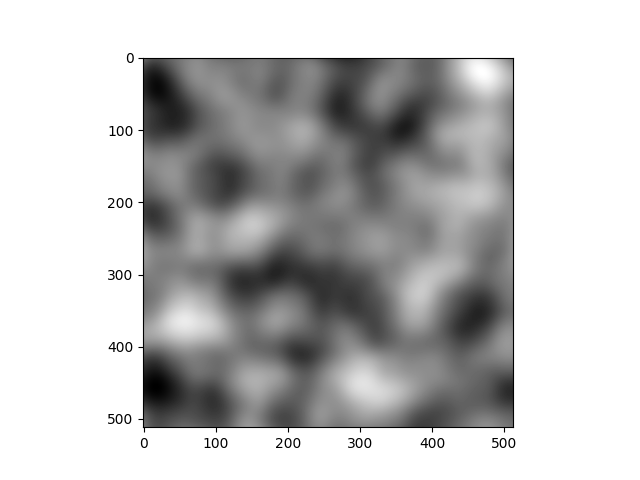
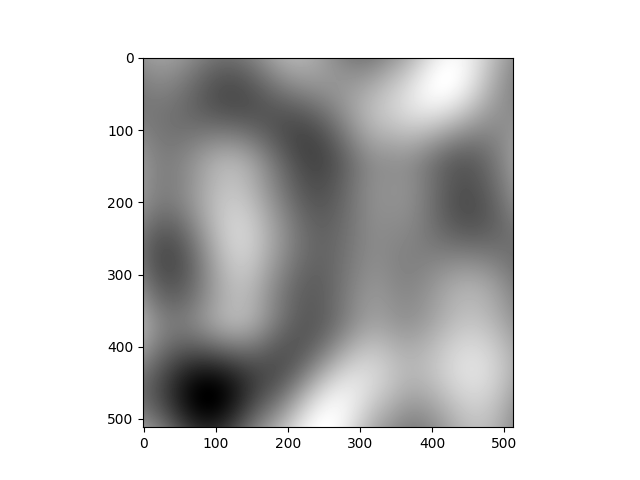
if anyone has a good config that looks like real clouds please create a pull request

diff --git a/test.py b/test.py
@@ -11,82 +11,80 @@ from perlin_noise import PerlinNoise
 config = {
     "noise1": {
         "octaves": 3,
-        "base": 8,
+        "base": 16,
         "inner": 1
     },"noise2": {
         "octaves": 6,
-        "base": 4,
+        "base": 16,
         "inner": 1
     },"noise3": {
-        "octaves": 12,
+        "octaves": 16,
         "base": 2,
         "inner": 2
     },"noise4": {
-        "octaves": 24,
+        "octaves": 16,
         "base": 1,
         "inner": 4
     },"noise5": {
-        "octaves": 48,
+        "octaves": 16,
         "base": 1,
         "inner": 5
     }
 }
 
-seed = random.randint(1,1000)
+noise1 = PerlinNoise(octaves=config["noise1"]["octaves"], seed=random.randint(1,1000))
+noise2 = PerlinNoise(octaves=config["noise2"]["octaves"], seed=random.randint(1,1000))
+noise3 = PerlinNoise(octaves=config["noise3"]["octaves"], seed=random.randint(1,1000))
+noise4 = PerlinNoise(octaves=config["noise4"]["octaves"], seed=random.randint(1,1000))
+noise5 = PerlinNoise(octaves=config["noise5"]["octaves"], seed=random.randint(1,1000))
 
-noise1 = PerlinNoise(octaves=config["noise1"]["octaves"], seed=seed)
-noise2 = PerlinNoise(octaves=config["noise2"]["octaves"], seed=seed)
-noise3 = PerlinNoise(octaves=config["noise3"]["octaves"], seed=seed)
-noise4 = PerlinNoise(octaves=config["noise4"]["octaves"], seed=seed)
-noise5 = PerlinNoise(octaves=config["noise5"]["octaves"], seed=seed)
-
-xpix, ypix = 512, 512
+x, y = 512, 512
 pic = []
-for i in range(xpix):
+for i in range(x):
     row = []
-    for j in range(ypix):
+    for j in range(y):
         noise_val = config["noise1"]["base"]*noise1(
             [i/(
-                config["noise1"]["inner"]*xpix
+                config["noise1"]["inner"]*x
                 ),
             j/(
-                config["noise1"]["inner"]*ypix
+                config["noise1"]["inner"]*y
                 )
             ]
         )
         noise_val += config["noise2"]["base"]*noise1(
             [i/(
-                config["noise2"]["inner"]*xpix
+                config["noise2"]["inner"]*x
                 ),
             j/(
-                config["noise2"]["inner"]*ypix
+                config["noise2"]["inner"]*y
                 )
             ]
         )
         noise_val += config["noise3"]["base"]*noise1(
             [i/(
-                config["noise3"]["inner"]*xpix
+                config["noise3"]["inner"]*x
                 ),
             j/(
-                config["noise3"]["inner"]*ypix
+                config["noise3"]["inner"]*y
                 )
             ]
         )
         noise_val += config["noise4"]["base"]*noise1(
             [i/(
-                config["noise4"]["inner"]*xpix
+                config["noise4"]["inner"]*x
                 ),
             j/(
-                config["noise4"]["inner"]*ypix
+                config["noise4"]["inner"]*y
                 )
             ]
         )
         noise_val += config["noise5"]["base"]*noise1(
             [i/(
-                config["noise5"]["inner"]*xpix
+                config["noise5"]["inner"]*x
                 ),
             j/(
-                config["noise5"]["inner"]*ypix
+                config["noise5"]["inner"]*y
                 )
             ]
         )

diff --git a/main.py b/main.py
@@ -5,8 +5,8 @@ legend = Image.open(r"./images/legend.png").convert("RGBA")
 land = Image.open(r"./images/land.png").convert("RGBA")
 topography = Image.open(r"./images/topography.png").convert("RGBA")
 locations = Image.open(r"./images/locations.png").convert("RGBA")
-range = Image.open(r"./images/range.png").convert("RGBA")
 weather = Image.open(r"./images/weather.png").convert("RGBA")
+range = Image.open(r"./images/range.png").convert("RGBA")
 copyright = Image.open(r"./images/copyright.png").convert("RGBA")
 
 # Create a base image with the same size as the legend image
@@ -17,8 +17,8 @@ base_image.paste(legend, (0, 0))
 base_image.paste(land, (0, 0), mask=land)
 base_image.paste(topography, (0, 0), mask=topography)
 base_image.paste(locations, (0, 0), mask=locations)
-base_image.paste(range, (0, 0), mask=range)
 base_image.paste(weather, (0, 0), mask=weather)
+base_image.paste(range, (0, 0), mask=range)
 base_image.paste(copyright, (0, 0), mask=copyright)
 
 # Save the final image
